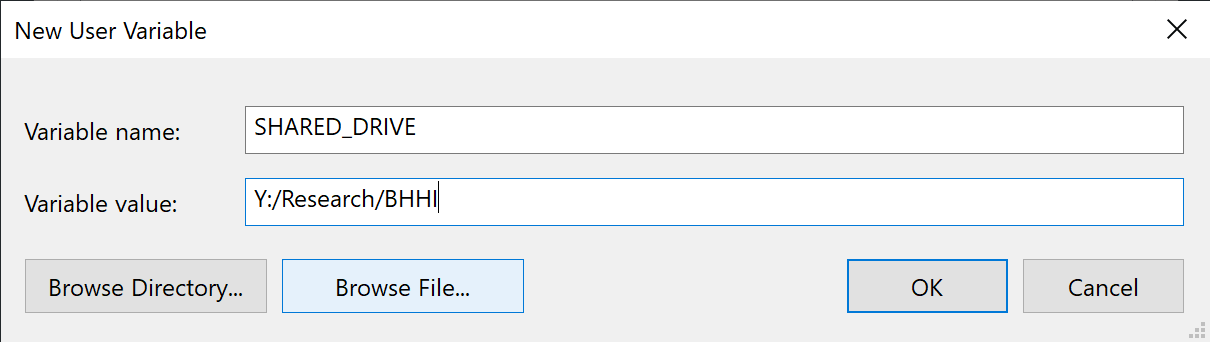
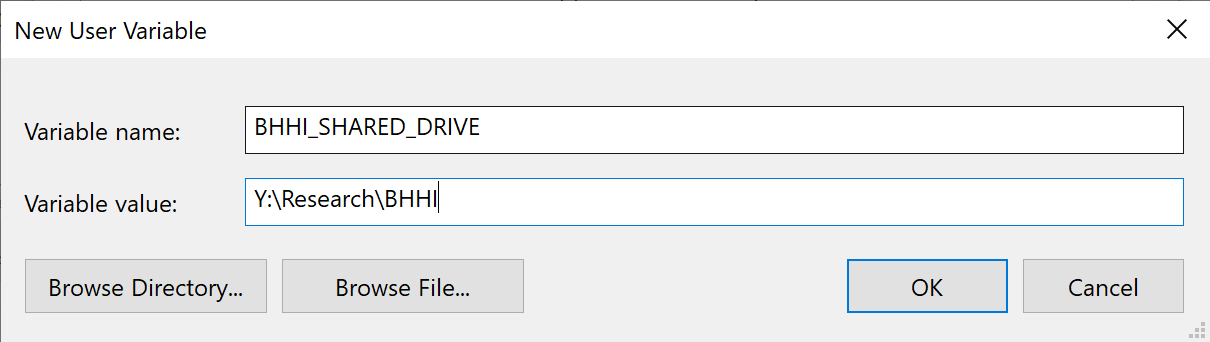
update envvar image

diff --git a/README.md b/README.md
@@ -10,9 +10,7 @@ guide](https://style.tidyverse.org/) by Hadley Wickham
 modifications for the Stata language.
 
 ## Files
-## Files
 
-### Names
 ### Names
 
 File names should be meaningful and end in .do. Avoid using special
@@ -48,7 +46,6 @@ file names that are all lower case, and never have names that differ
 only in their capitalization.
 
 ### File paths
-### File paths
 
 **Always use relative file paths** in code instead of absolute file
 paths. Relative file paths are, as the name suggests, relative to the
@@ -80,7 +77,6 @@ likely to cause path compatibility problems. If you find yourself using
 you’re trying to do that doesn’t involve changing the working directory.
 
 #### Absolute file paths
-#### Absolute file paths
 
 There is one situation where we need to use absolute file paths: shared
 data resources. These are datasets used across multiple projects or
@@ -100,25 +96,20 @@ individually set the path to our shared drive as an environmental
 variable and then in our code reference the environmental variable to
 get to the shared drive. This allows the paths to work across operating
 systems and doesn’t require us to have the same shared drive setup.
-variables and they store a string in a named variable. So we
-individually set the path to our shared drive as an environmental
-variable and then in our code reference the environmental variable to
-get to the shared drive. This allows the paths to work across operating
-systems and doesn’t require us to have the same shared drive setup.
 
 To make things easy we standardize the name of the environmental
 variable and load the path to the shared drive into a Stata global
 variable, which is easier to use in code. We call the environmental
-variable `SHARED_DRIVE` and set it in the global variable
-`${shared_drive}`. Here’s the code snippet:
+variable `BHHI_SHARED_DRIVE` and set it in the global variable
+`${bhhi_shared_drive}`. Here’s the code snippet:
 
 ``` stata
 global bhhi_shared_drive : env BHHI_SHARED_DRIVE
 ```
 
 Add this line your `profile.do` file and it will run everytime you start
-Stata and the `${shared_drive}` global variable will always be available
-for you. For example:
+Stata and the `${bhhi_shared_drive}` global variable will always be
+available for you. For example:
 
 ``` stata
 use "${bhhi_shared_drive}/statewide_survey_processed_data/latest/statewide_survey_processed.dta"
@@ -172,9 +163,7 @@ On Mac, it’s location probably looks like this: `/Users/eve/profile.do`
 >     appropriate): `export BHHI_SHARED_DRIVE="PATH TO SHARED DRIVE"`
 
 </div>
-</div>
 
-### Internal structure
 ### Internal structure
 
 Use commented lines of - and = to break up your file into easily
@@ -191,9 +180,7 @@ a comment at the top of the file so others can ensure they have those
 files or packages installed.
 
 ## Syntax
-## Syntax
 
-### Variable names
 ### Variable names
 
 Stata has rules for variable names:
@@ -221,13 +208,11 @@ _1_day
 ```
 
 ### Spacing
-### Spacing
 
 The spacebar is your friend! Putting spaces in your code makes it more
 readable and easier to understand, both for others and for your future
 self.
 
-#### Operators
 #### Operators
 
 Most operators (`+`, `-`, `=`, `==`, `<`, `<=`, etc.) should have spaces
@@ -253,7 +238,6 @@ replace fruit="apple" if fruit!="banana"
 ```
 
 #### Parentheses
-#### Parentheses
 
 Do not put spaces inside or outside parentheses for function calls.
 
@@ -266,7 +250,6 @@ egen mean = mean (lexp)
 egen mean = mean( lexp )
 ```
 
-#### Commas
 #### Commas
 
 Always put a space after a comma, never before, just like in regular
@@ -281,7 +264,6 @@ tab foo bar,row
 tab foo bar , row
 ```
 
-### Loops
 ### Loops
 
 Try to avoid repeating yourself when writing code. If you find yourself
@@ -312,7 +294,6 @@ replace `var' = `var' + 1
 ```
 
 ### Commands
-### Commands
 
 Stata doesn’t require you to type the full name of a command (ie.
 `generate`, `gen`, and `g` are all legal ways to invoke the `generate`
@@ -341,7 +322,6 @@ ta foo bar
 ```
 
 ### Comments
-### Comments
 
 Comments should describe *why* you are writing a particular piece of
 code that needs additional explanation, not *how* the code works. The
@@ -360,7 +340,6 @@ explanation text in one document that makes it much easier to understand
 what’s happening than code comments and a log file.
 
 #### Single-line comments
-#### Single-line comments
 
 Use `//` instead of `*` for line comments. While you can start a line
 comment with `*` in Stata, it’s not a good idea because it’s too easily
@@ -372,7 +351,6 @@ confused with multiplication.
 * Bad
 ```
 
-#### Multi-line comments
 #### Multi-line comments
 
 Use `/*` and `*/` for multi-line comments
@@ -399,7 +377,6 @@ comment
 */
 ```
 
-### Semicolons
 ### Semicolons
 
 Unless you have a good reason don’t use semicolons (`;`) to denote line
@@ -430,7 +407,6 @@ tabstat variable_1 variable_2 variable_3
 #delimit cr
 ```
 
-### Long lines
 ### Long lines
 
 Try to keep individual lines of code to 80 characters. This is a
